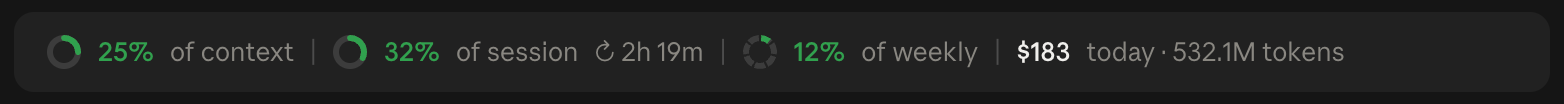
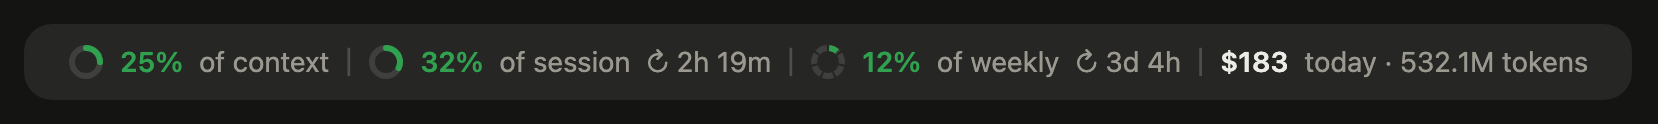
README: new 40-second promo, and the band in three states, dark and light
The screenshots are drawn by token-bar's own renderer, so the weekly
reset countdown shows.

Changed region(s): [[0.0307, 0.3462, 0.9821, 0.6346]]

diff --git a/README.md b/README.md
@@ -6,9 +6,9 @@ Claude Code mods, shipped as plugins. Requires Claude Code **2.1.287** or later.
 
 One line above the prompt that shows how full your context window and your plan's usage limits are, and what today's usage would cost at API prices.
 
-https://github.com/user-attachments/assets/d3748a88-43b6-4c02-a343-623e2c3aecdd
+https://github.com/user-attachments/assets/8f059df5-95c5-4a7b-ae20-fa0baffb73ff
 
-![token-bar in the Claude desktop app, above the prompt](docs/token-bar.png)
+![token-bar's band as the Claude desktop app draws it, above the prompt](docs/token-bar.png)
 
 ```
 ◔ 36% of context │ ◔ 12% of session ↻ 2h 46m │ ◌ 8% of weekly ↻ 3d 4h │ $42.17 today · 118M tokens
@@ -22,6 +22,16 @@ https://github.com/user-attachments/assets/d3748a88-43b6-4c02-a343-623e2c3aecdd
 - It updates after every turn and after `/compact` or `/clear`; the quota, countdowns and today's total refresh every 30 seconds.
 - The desktop app draws rings (context and session fill clockwise; weekly is split into seven arcs, one a day) with a rule between groups; the terminal draws text.
 - When the band is too narrow, groups are hidden from the right and leave a colored `•` behind.
+
+In the desktop app's dark and light themes: early in the day, a busy session, and close to the limits.
+
+![Dark theme, early in the day: everything green](docs/token-bar-dark-1.png)
+![Dark theme, a busy session: context and session yellow](docs/token-bar-dark-2.png)
+![Dark theme, close to the limits: all red, the session resets in 14 minutes](docs/token-bar-dark-3.png)
+
+![Light theme, early in the day: everything green](docs/token-bar-light-1.png)
+![Light theme, a busy session: context and session yellow](docs/token-bar-light-2.png)
+![Light theme, close to the limits: all red, the session resets in 14 minutes](docs/token-bar-light-3.png)
 
 Session and weekly only appear on a Claude subscription, once the first reply of the session has arrived. With an API key there are no usage limits to show, so only the context is drawn.
 
@@ -65,7 +75,7 @@ claude plugin test ./token-bar
 
 ## 中文说明
 
-token-bar 在 Claude Code 输入框上方显示一行用量（[30 秒宣传片](https://github.com/user-attachments/assets/d3748a88-43b6-4c02-a343-623e2c3aecdd)）：
+token-bar 在 Claude Code 输入框上方显示一行用量（[40 秒宣传片](https://github.com/user-attachments/assets/8f059df5-95c5-4a7b-ae20-fa0baffb73ff)）：
 
 - **context**：当前对话的上下文窗口已用多少
 - **session**：5 小时额度已用多少，以及多久后重置
@@ -73,6 +83,8 @@ token-bar 在 Claude Code 输入框上方显示一行用量（[30 秒宣传片](
 - **today**：今天所有 Claude Code 会话一共用了多少 token，按 API 价格折算值多少钱
 
 颜色跟手机电量一样：60% 以下绿色，60–79% 黄色，80% 及以上红色。每轮回复后、`/compact` 和 `/clear` 后更新；额度、倒计时和今日用量每 30 秒刷新一次。session 和 weekly 只在订阅账号下显示（会话收到第一条回复后出现）。
+
+深色和浅色主题下的三种情况：刚开工、用得正猛、快到额度上限（见上方截图）。
 
 今日用量读取本地对话记录，所以插件加载之前的会话也算在内。计算规则和 ccusage 一致（按回复去重、按本地日期统计、按官方价格计费），结果与 `ccusage claude daily` 逐日一致。金额是**按 API 价格的折算值**，订阅用户并不会被这样扣费。今日用量依赖 `osascript`，**仅支持 macOS**。
 
